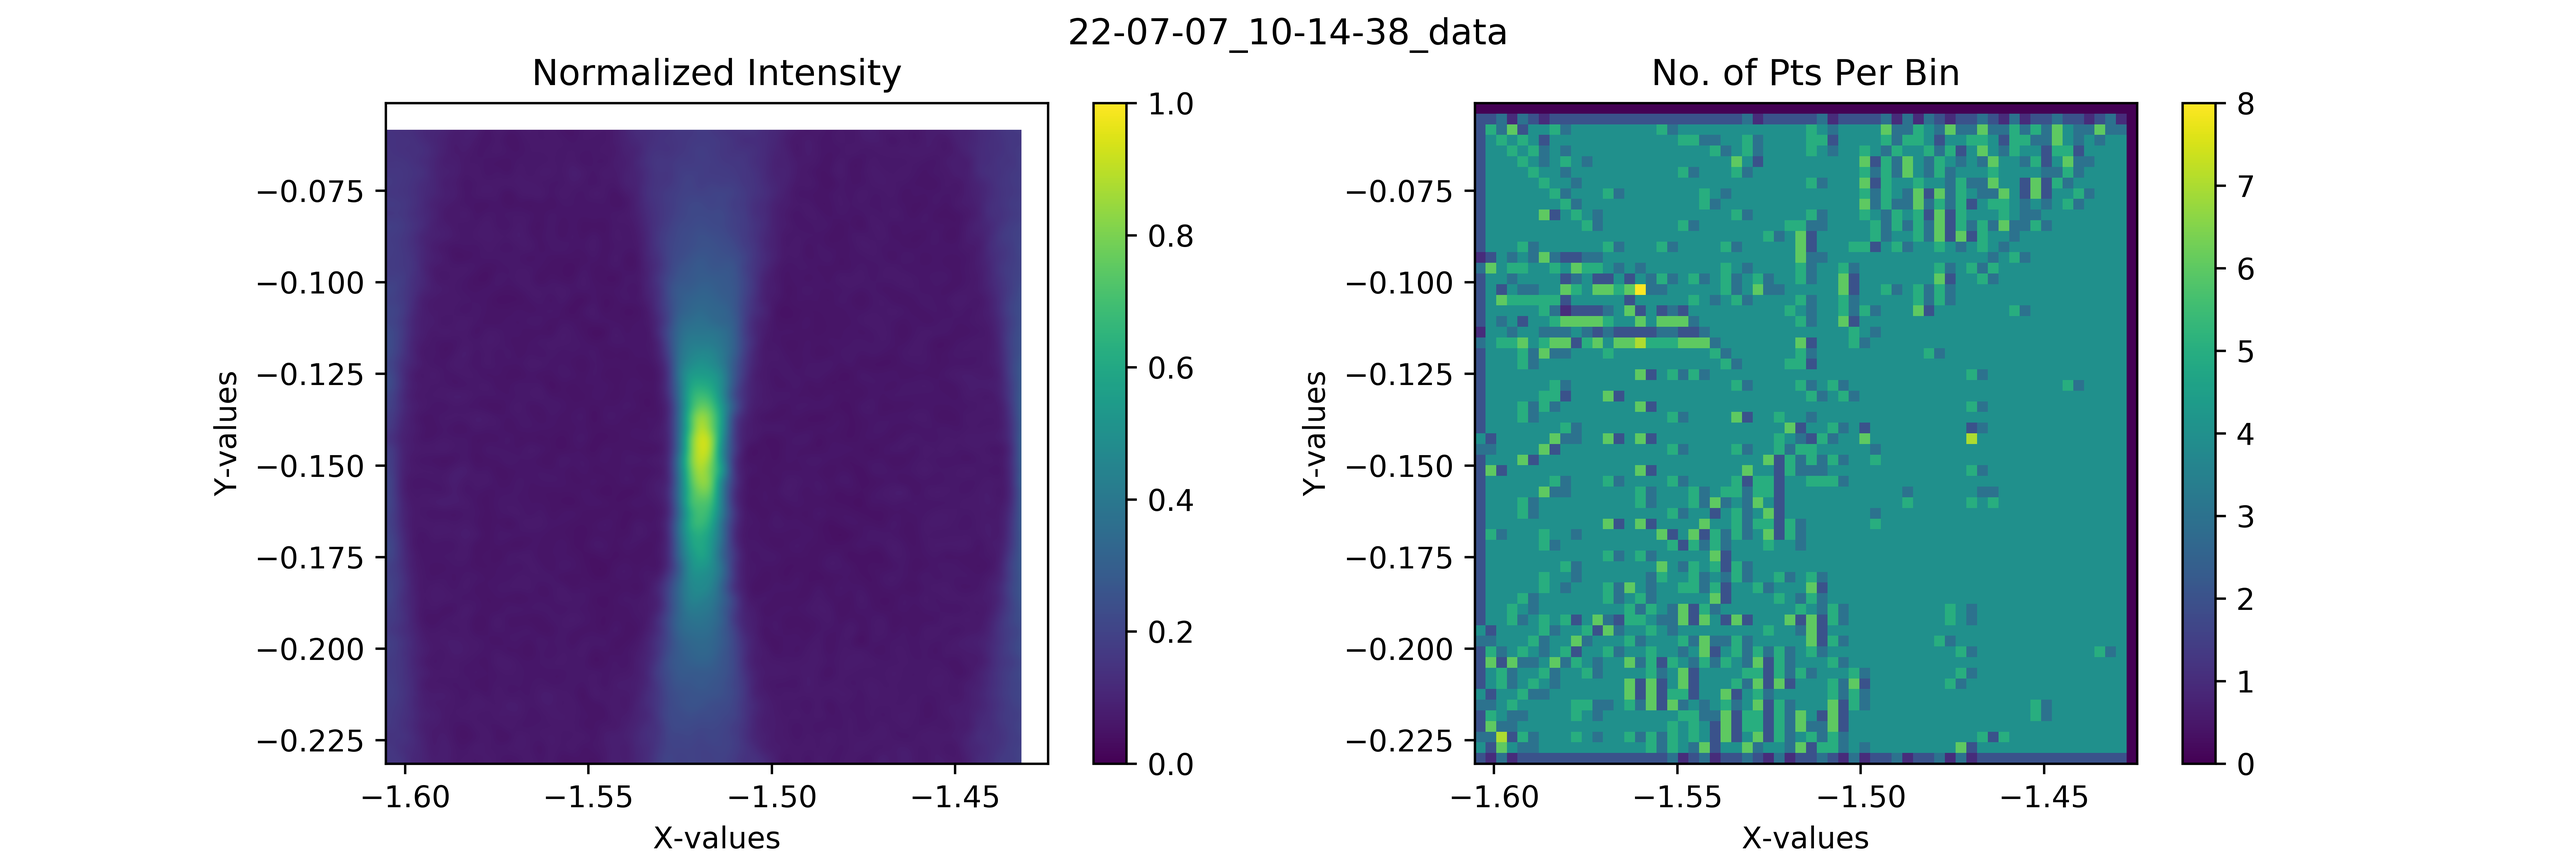
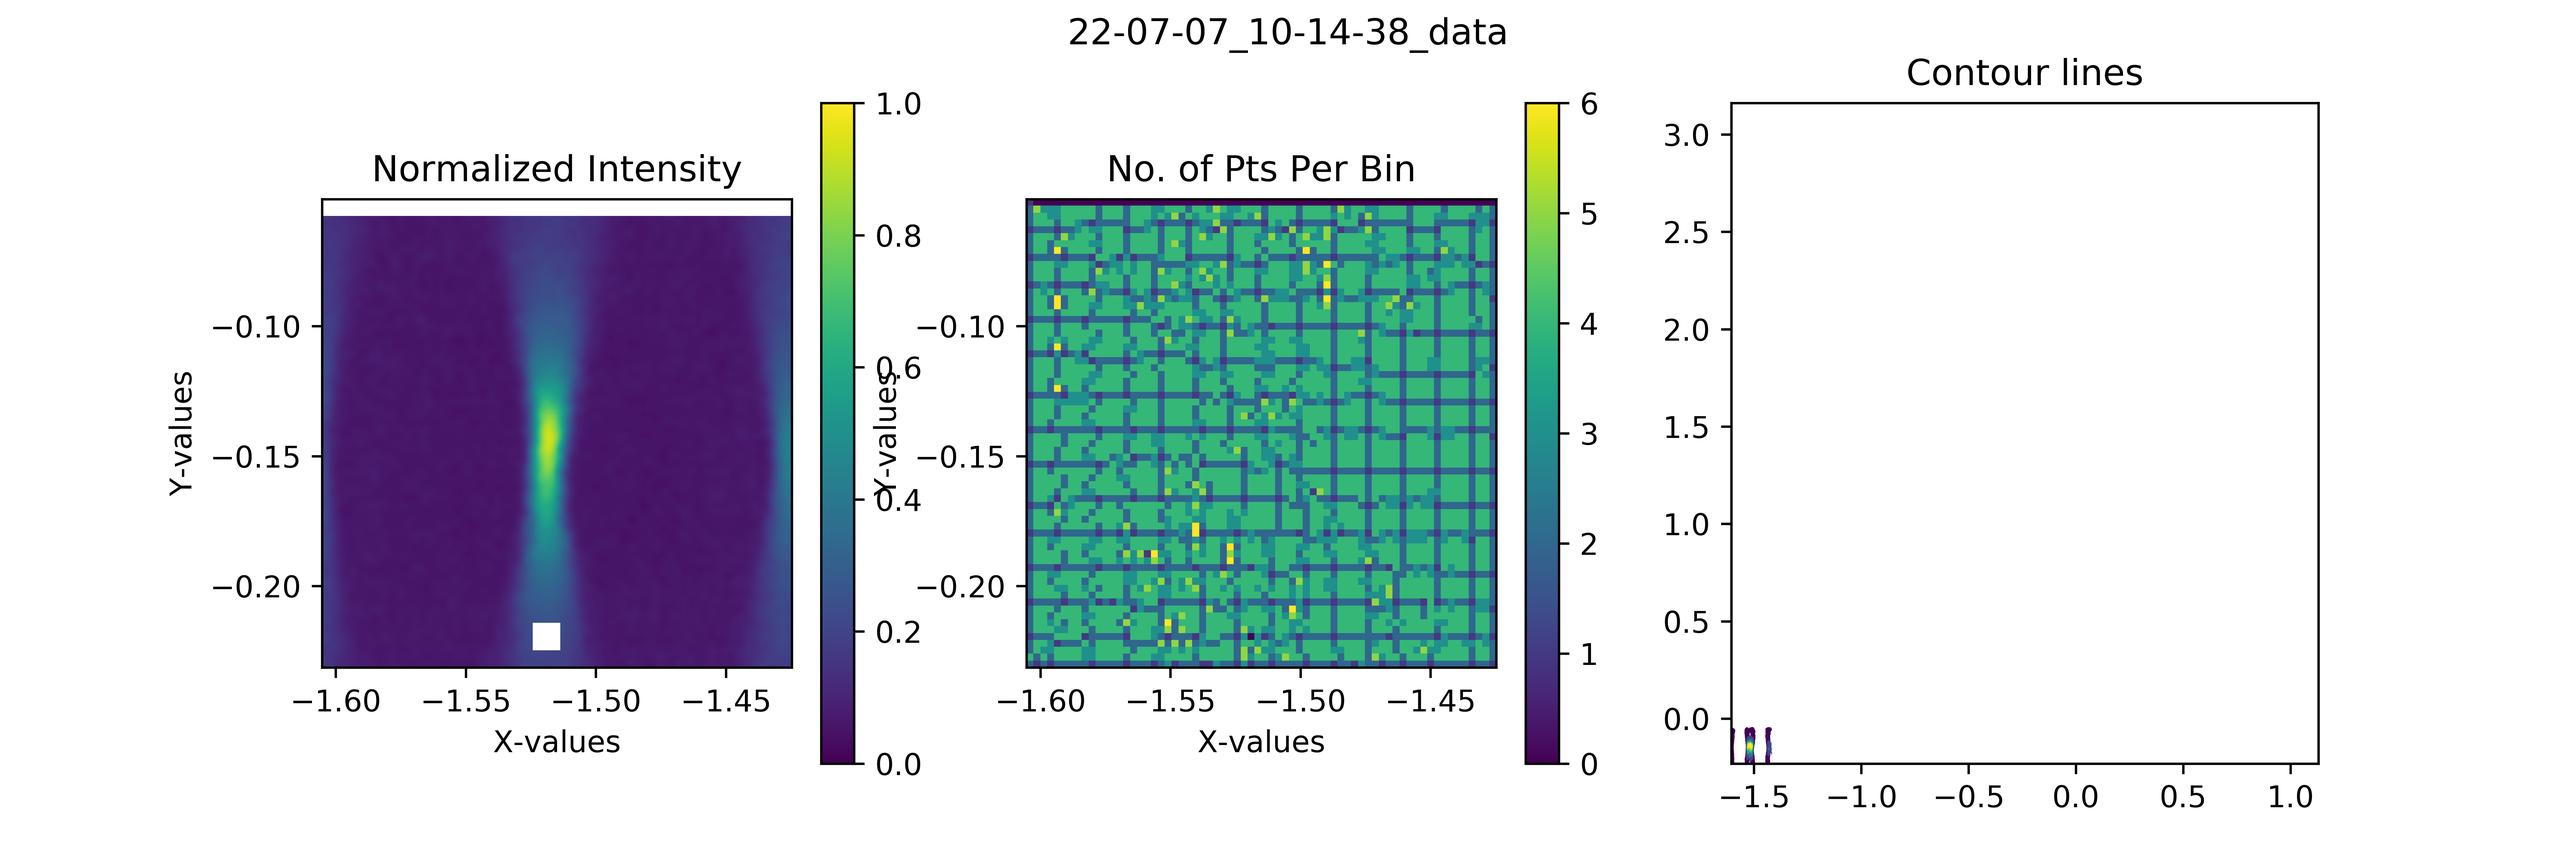
added contourplots

diff --git a/Dataanalysis_v06.py b/Dataanalysis_v06.py
@@ -10,6 +10,8 @@ from mpl_toolkits import mplot3d
 from scipy import constants
 import os
 import scipy as sc
+import matplotlib.cm as cm
+import matplotlib.tri as tri
 
 
 
@@ -69,7 +71,71 @@ I_side_limit = I_side
 
 plotgriddata(x, y, I_norm, profile=0, binsize=0.0027)
 
-plotgriddata(y_side, z_side, I_side_norm, profile = 1, binsize=0.003)
+plotgriddata(y_side, z_side, I_side_norm, profile = 1, binsize=0.0027)
+
+#%% try out interpolation onto grid
+
+
+
+def gridinterpolation(x,y,I_norm):
+    
+    ngridx = ngridy = 0.0001     # Grid resolution
+    z = I_norm
+    
+    fig, (ax1, ax2) = plt.subplots(ncols=2)
+    
+    # -----------------------
+    # Interpolation on a grid
+    # -----------------------
+    # A contour plot of irregularly spaced data coordinates
+    # via interpolation on a grid.
+    
+    # Create grid values first.
+    xi = np.arange(x.min(), x.max(), ngridx)
+    yi = np.arange(y.min(), y.max(), ngridy)
+    extent = (x.min(), x.max(), y.min(), y.max()) # extent of the plot
+    
+    # Linearly interpolate the data (x, y) on a grid defined by (xi, yi).
+    #triang = tri.Triangulation(x, y)
+    #interpolator = tri.LinearTriInterpolator(triang, z)
+    #Xi, Yi = np.meshgrid(xi, yi)
+    #zi = interpolator(Xi, Yi)
+    
+    # Note that scipy.interpolate provides means to interpolate data on a grid
+    # as well. The following would be an alternative to the four lines above:
+    from scipy.interpolate import griddata
+    zi = griddata((x, y), z, (xi[None, :], yi[:, None]), method='linear')
+    
+    ax2.imshow(zi, extent=extent, origin='upper')
+    ax1.contour(xi, yi, zi)
+    cntr1 = ax1.contourf(xi, yi, zi, levels=7, cmap="RdBu_r", aspect='equal')
+    
+    fig.colorbar(cntr1, ax=ax1)
+    ax1.plot(x, y, 'ko', ms=3)
+    ax1.set()
+    ax1.set_title('grid and contour (%d points, %d grid points)' %
+                  (ngridx * ngridy))
+    
+    # ----------
+    # Contour lines
+    # ----------
+    # Directly supply the unordered, irregularly spaced coordinates
+    # to tricontour.
+    
+    #ax2.tricontour(x, y, z)
+    #cntr2 = ax2.tricontourf(x, y, z, levels=7, cmap="RdBu_r")
+    #
+    #fig.colorbar(cntr2, ax=ax2)
+    #ax2.plot(x, y, 'ko', ms=3)
+    #ax2.set()
+    #ax2.set_title('tricontour')
+    
+    plt.subplots_adjust(hspace=0.5)
+    plt.show()
+    
+    return
+
+gridinterpolation(y_side, z_side, I_side_norm)
 
 #%% plotting data as heatmap xy plane
 
@@ -187,6 +253,7 @@ def griddata(x, y, z, binsize, retbin=True, retloc=True):
     Revisions
     ---------
     2010-07-11  ccampo  Initial version
+    2022-07-11  nieseh  Adaptation
     """
     # get extrema values.
     xmin, xmax = x.min(), x.max()
@@ -275,13 +342,13 @@ def plotgriddata(x, y, I_norm, profile, binsize):
     palette = 'viridis'#plt.matplotlib.colors.LinearSegmentedColormap('viridis',plt.cm.datad['viridis'],2048)
     #palette.set_under(alpha=0.0)
     
-    fig, axs = plt.subplots(1,2, figsize=(12,4))
+    fig, axs = plt.subplots(1,3, figsize=(12,4))
     fig.suptitle(file)
     
     # plot the results.  first plot is x, y vs z, where z is a filled level plot.
     extent = (x.min(), x.max(), y.min(), y.max()) # extent of the plot
     axs[0].plot(1, 2, 1)
-    pic = axs[0].imshow(grid, extent=extent, cmap=palette, origin='lower', vmin=zmin, vmax=zmax, aspect='equal', interpolation='bicubic')
+    pic = axs[0].imshow(grid, extent=extent, cmap=palette, origin='lower', vmin=zmin, vmax=zmax, aspect='equal', interpolation='nearest')
     axs[0].set_xlabel(Axis1)
     axs[0].set_ylabel(Axis2)
     axs[0].set_title('Normalized Intensity')
@@ -295,6 +362,11 @@ def plotgriddata(x, y, I_norm, profile, binsize):
     axs[1].set_ylabel(Axis2)
     axs[1].set_title('No. of Pts Per Bin')
     plt.colorbar(bins, ax = axs[1])
+    
+    axs[2].plot(1, 2, 3)
+    cont = axs[2].contour(xi, yi, grid)
+    axs[2].clabel(cont, inline=True, fontsize=10)
+    axs[2].set_title('Contour lines')
     
     os.chdir(outpath)
     plt.savefig('%s_binning.png' % save, dpi=600)
